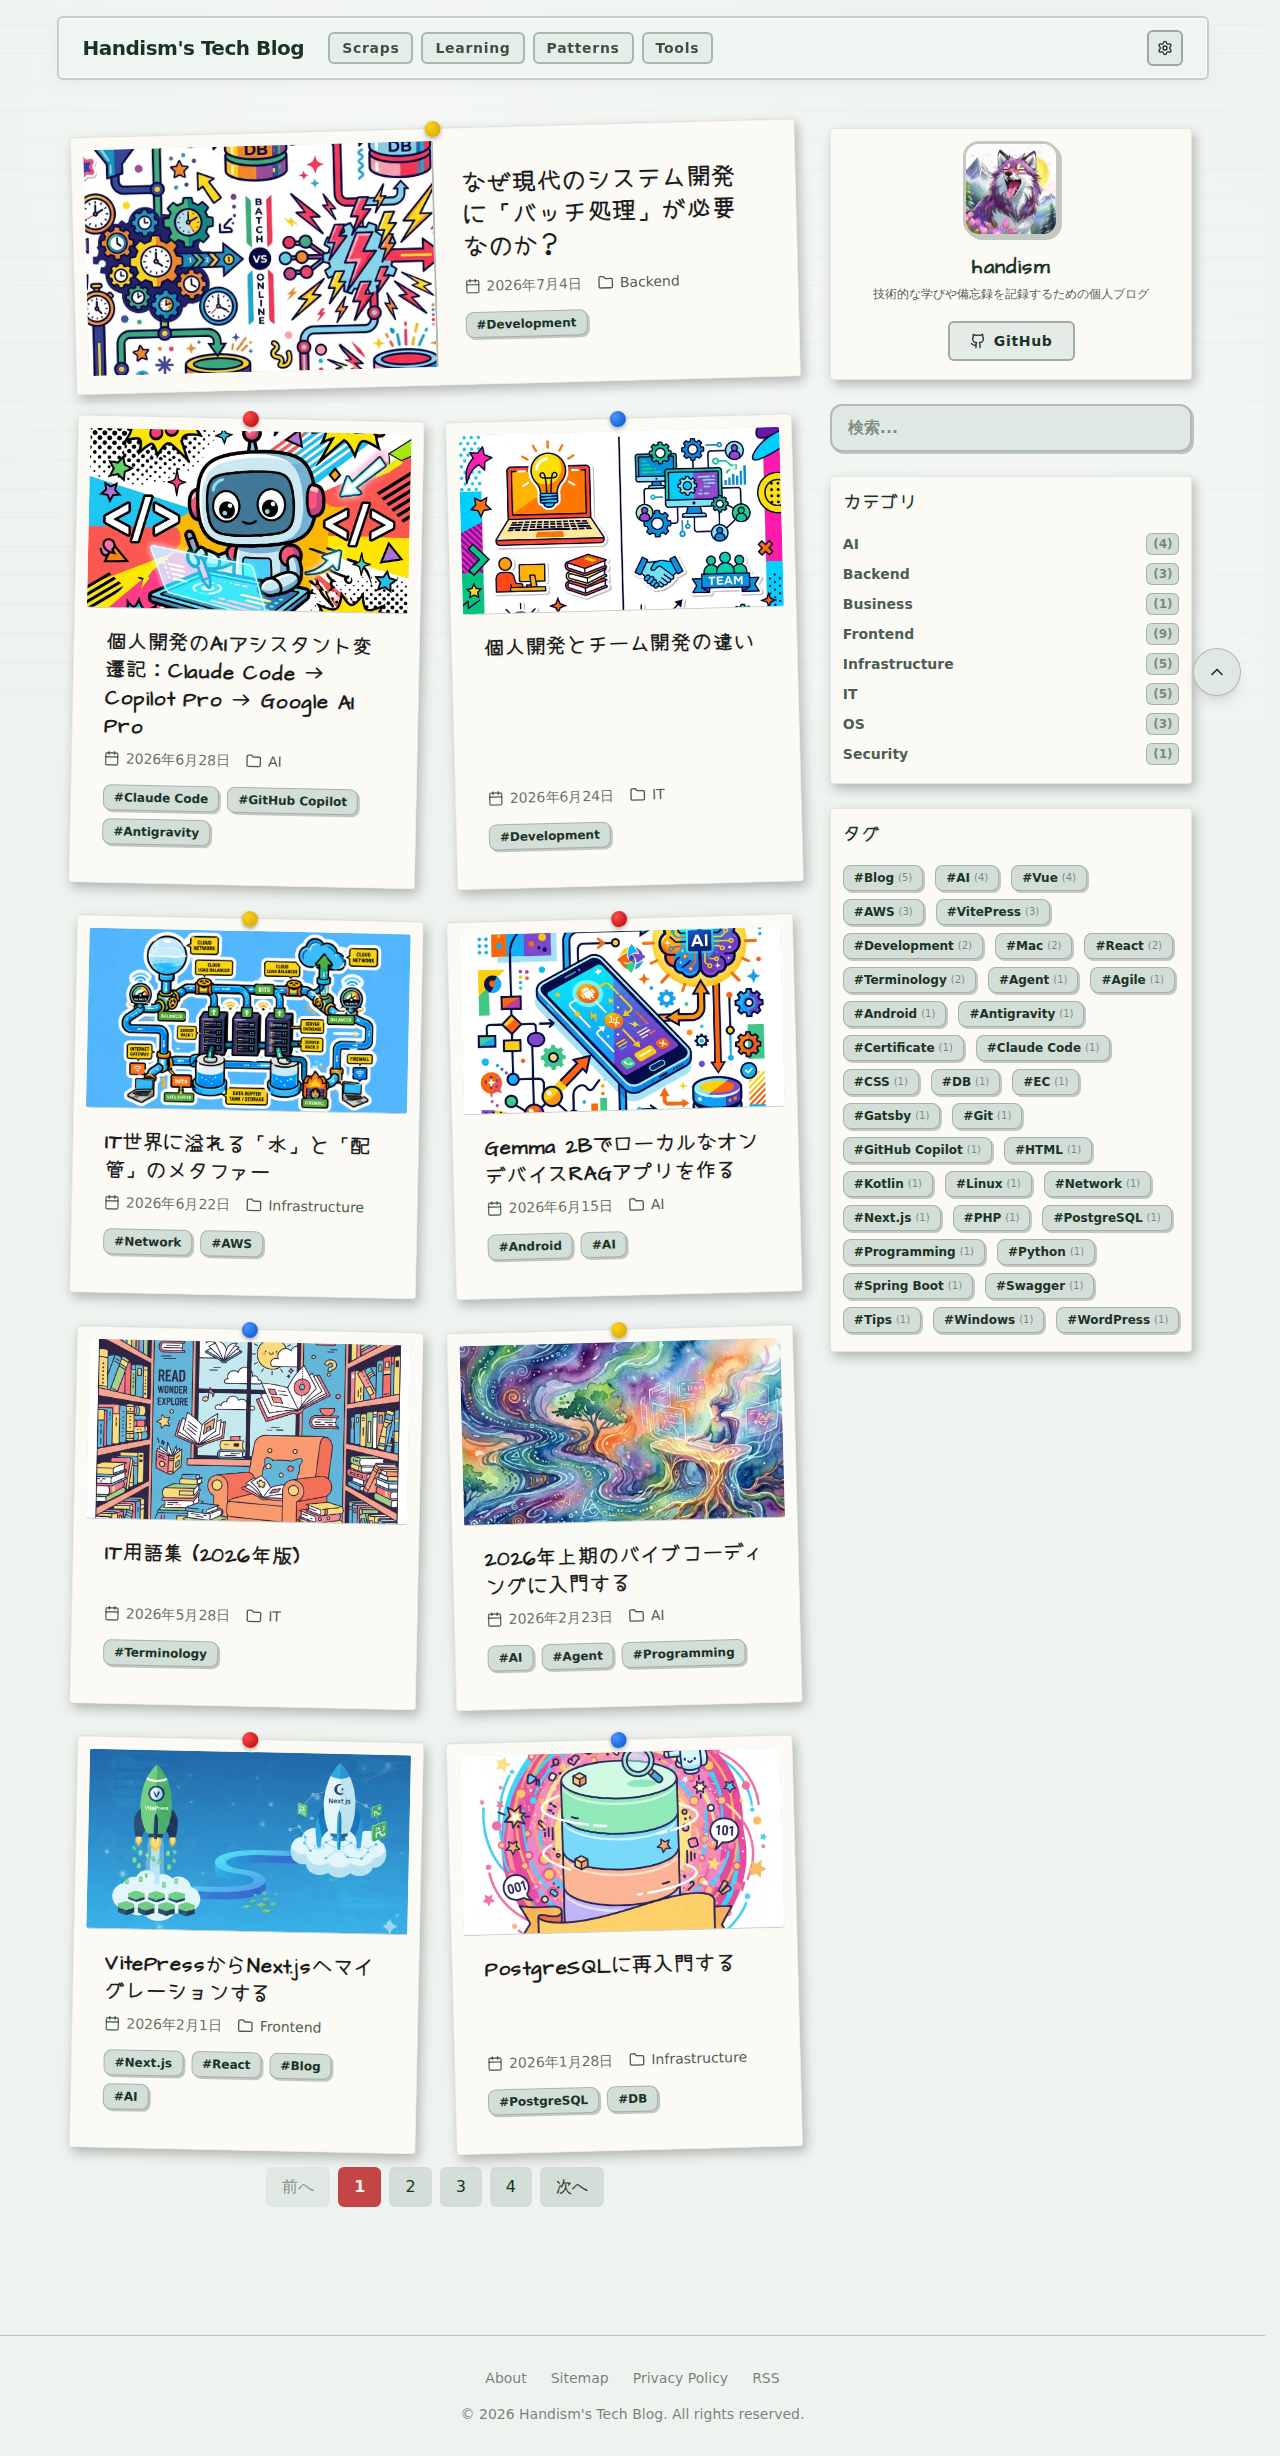
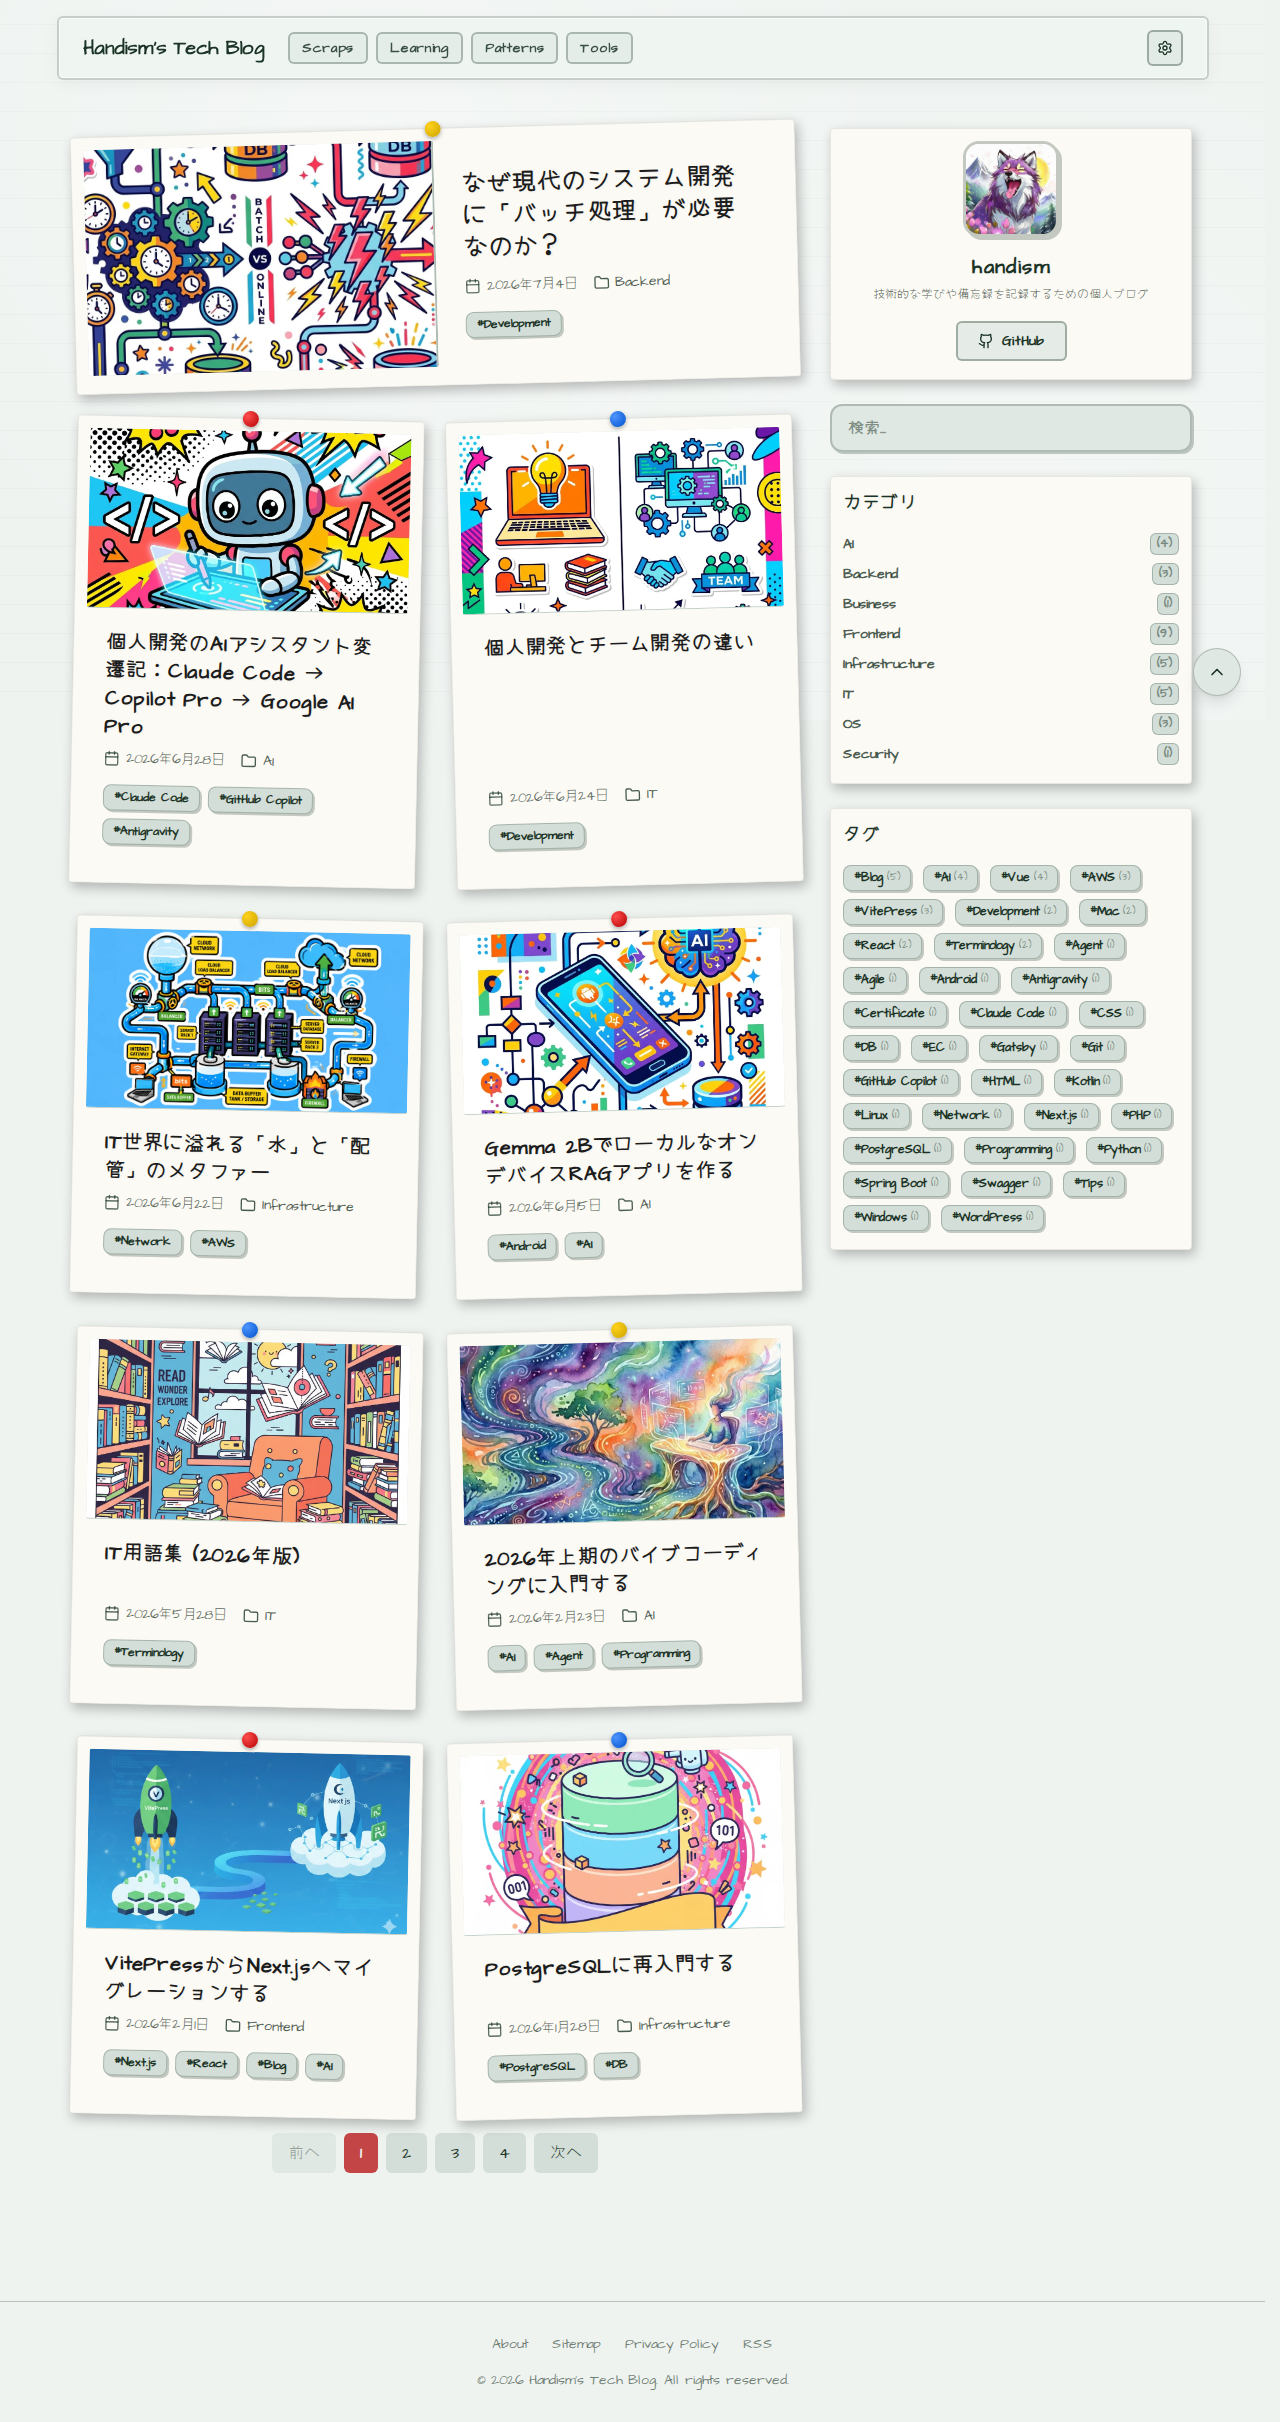
Merge pull request #83 from handism/palette/accessibility-improvements-10258690143253759621
🎨 Palette: add focus rings and aria-labels to clear/close buttons

Pull request: 🎨 Palette: add focus rings and aria-labels to clear/close buttons
**💡 What:** 
Added keyboard focus rings (`focus-visible:ring-2 focus-visible:ring-accent`) and `aria-label="閉じる"` to icon-only clear/close buttons across multiple components (`AwsPatternGallery`, `HttpStatus`, `GitHelper`, `LearningLayout`). Also updated the chalkboard VRT snapshot.

**🎯 Why:**
Users relying on keyboard navigation (e.g. using the Tab key) require clear visual indicators of their current focus. Additionally, icon-only buttons need `aria-label` attributes for screen readers to convey their purpose properly.

**📸 Before/After:**
*(Verified visually with Playwright: The clear button (X) inside the search box now shows a thick green highlight ring when focused via keyboard instead of remaining visually static)*

**♿ Accessibility:**
Improved keyboard navigation visibility by ensuring a standardized `focus-visible` UI pattern, and corrected missing assistive technology announcements on the mobile drawer close button.

---
*PR created automatically by Jules for task [10258690143253759621](https://jules.google.com/task/10258690143253759621) started by @user*

Changed region(s): [[0.0625, 0.0, 0.625, 0.898], [0.6562, 0.0619, 0.9375, 0.5574], [0.375, 0.96, 0.625, 0.9909]]

diff --git a/src/components/LearningLayout.tsx b/src/components/LearningLayout.tsx
@@ -135,7 +135,8 @@ export default function LearningLayout({
               </div>
               <button
                 onClick={() => setIsChapterDrawerOpen(false)}
-                className="p-1 hover:bg-secondary rounded-lg"
+                className="p-1 hover:bg-secondary rounded-lg focus-visible:ring-2 focus-visible:ring-accent"
+                aria-label="閉じる"
               >
                 <X className="h-5 w-5 text-text/60" />
               </button>

diff --git a/src/components/AwsPatternGallery.tsx b/src/components/AwsPatternGallery.tsx
@@ -79,7 +79,7 @@ export default function AwsPatternGallery({ patterns }: Props) {
                   setSearchQuery('');
                   searchInputRef.current?.focus();
                 }}
-                className="absolute right-3 top-1/2 -translate-y-1/2 text-text/40 hover:text-text cursor-pointer"
+                className="absolute right-3 top-1/2 -translate-y-1/2 text-text/40 hover:text-text cursor-pointer transition-colors p-1 focus-visible:ring-2 focus-visible:ring-accent rounded"
               >
                 <X className="h-4 w-4" />
               </button>

diff --git a/src/components/tools/git/GitHelper.tsx b/src/components/tools/git/GitHelper.tsx
@@ -88,7 +88,7 @@ export default function GitHelper() {
                 setSearchQuery('');
                 searchInputRef.current?.focus();
               }}
-              className="absolute right-3 top-1/2 -translate-y-1/2 text-text/40 hover:text-text cursor-pointer"
+              className="absolute right-3 top-1/2 -translate-y-1/2 text-text/40 hover:text-text cursor-pointer transition-colors p-1 focus-visible:ring-2 focus-visible:ring-accent rounded"
             >
               <X className="w-4 h-4" />
             </button>

diff --git a/src/components/tools/network/HttpStatus.tsx b/src/components/tools/network/HttpStatus.tsx
@@ -67,7 +67,7 @@ export default function HttpStatus() {
                 setSearchQuery('');
                 searchInputRef.current?.focus();
               }}
-              className="absolute right-3 top-1/2 -translate-y-1/2 text-text/40 hover:text-text cursor-pointer"
+              className="absolute right-3 top-1/2 -translate-y-1/2 text-text/40 hover:text-text cursor-pointer transition-colors p-1 focus-visible:ring-2 focus-visible:ring-accent rounded"
             >
               <X className="w-4 h-4" />
             </button>

diff --git a/.Jules/palette.md b/.Jules/palette.md
@@ -2,3 +2,4 @@
 ## 2026-07-09 - Add clear button to search inputs
 **Learning:** Adding a clear button (X icon) to search inputs significantly improves usability by allowing users to quickly reset their query without repeatedly pressing backspace. It also provides immediate visual feedback that the field is active and can be cleared.
 **Action:** Always include a clear button for search inputs, ensuring it is keyboard accessible, has an appropriate aria-label, and properly manages focus when clicked (returning focus to the input).
+## 2026-07-10 - Add missing focus rings and ARIA labels to buttons\n**Learning:** Icon-only buttons used for secondary actions (like clearing search inputs or closing drawers) are frequently missing accessible focus states (`focus-visible:ring-2 focus-visible:ring-accent`) and ARIA labels. Users relying on keyboard navigation need clear visual indicators of their current focus.\n**Action:** Always test components with keyboard navigation (Tab key) to ensure all interactive elements, particularly icon-only buttons, have visible focus rings and appropriate `aria-label` attributes.